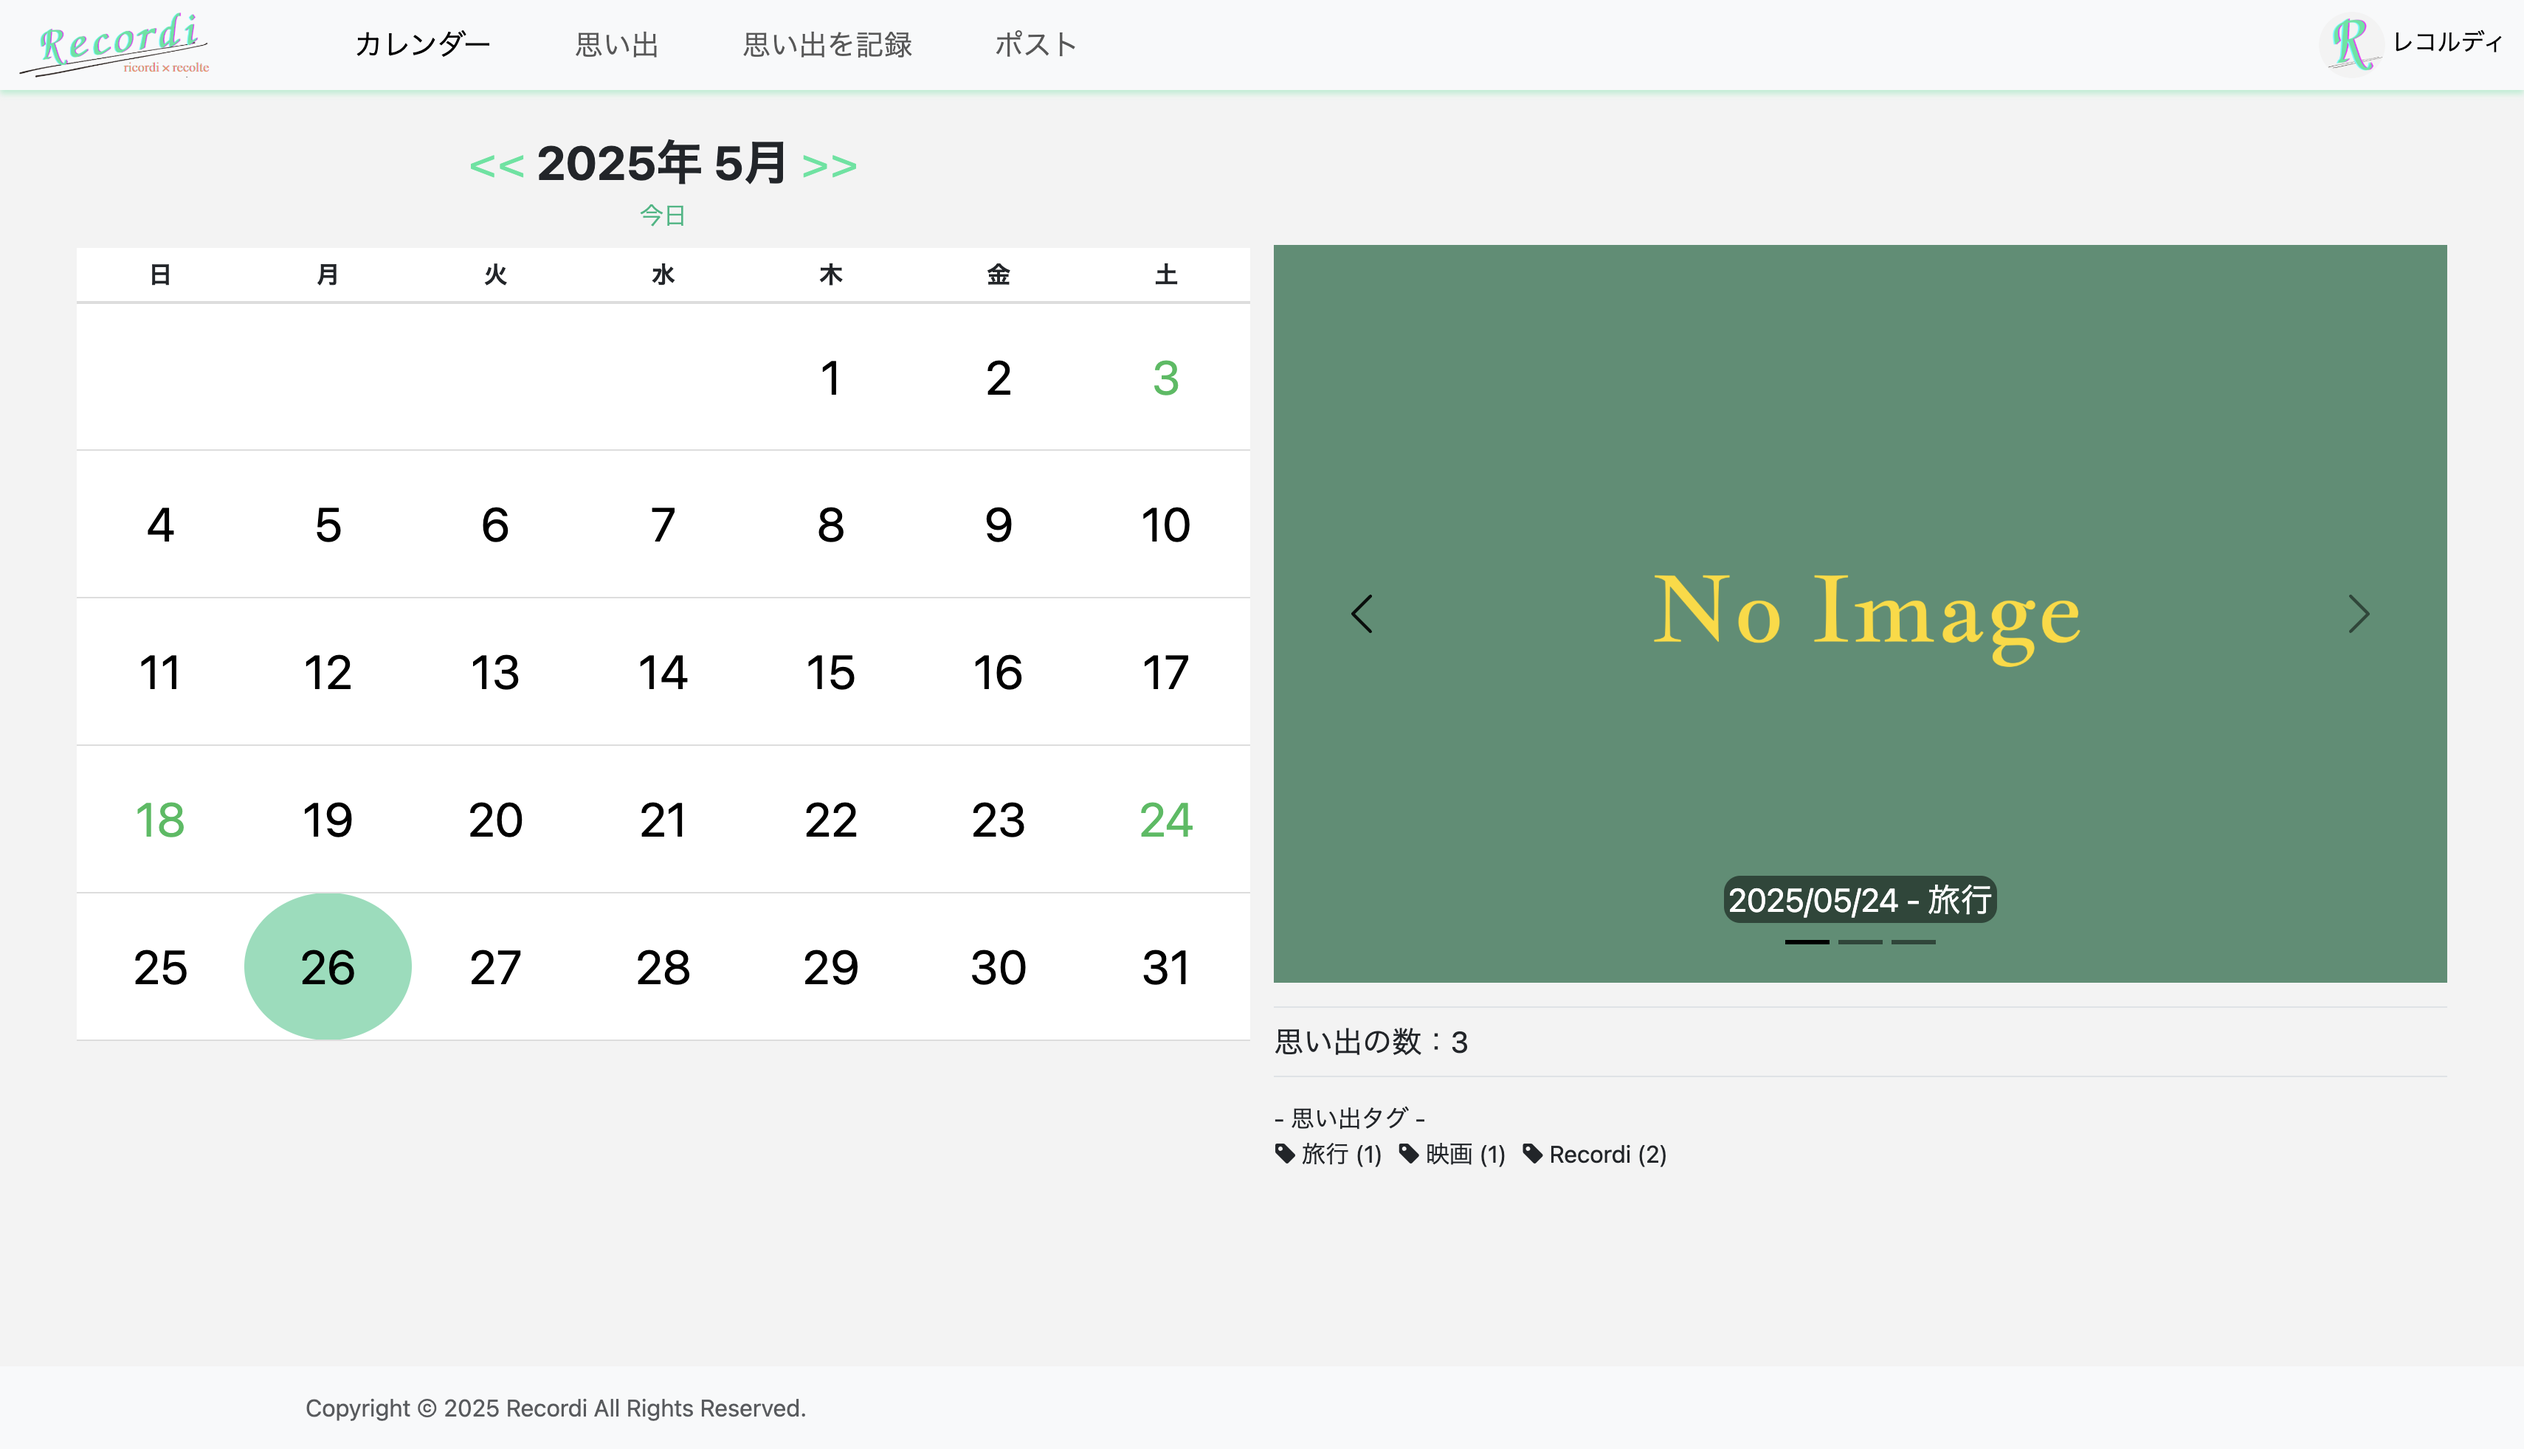
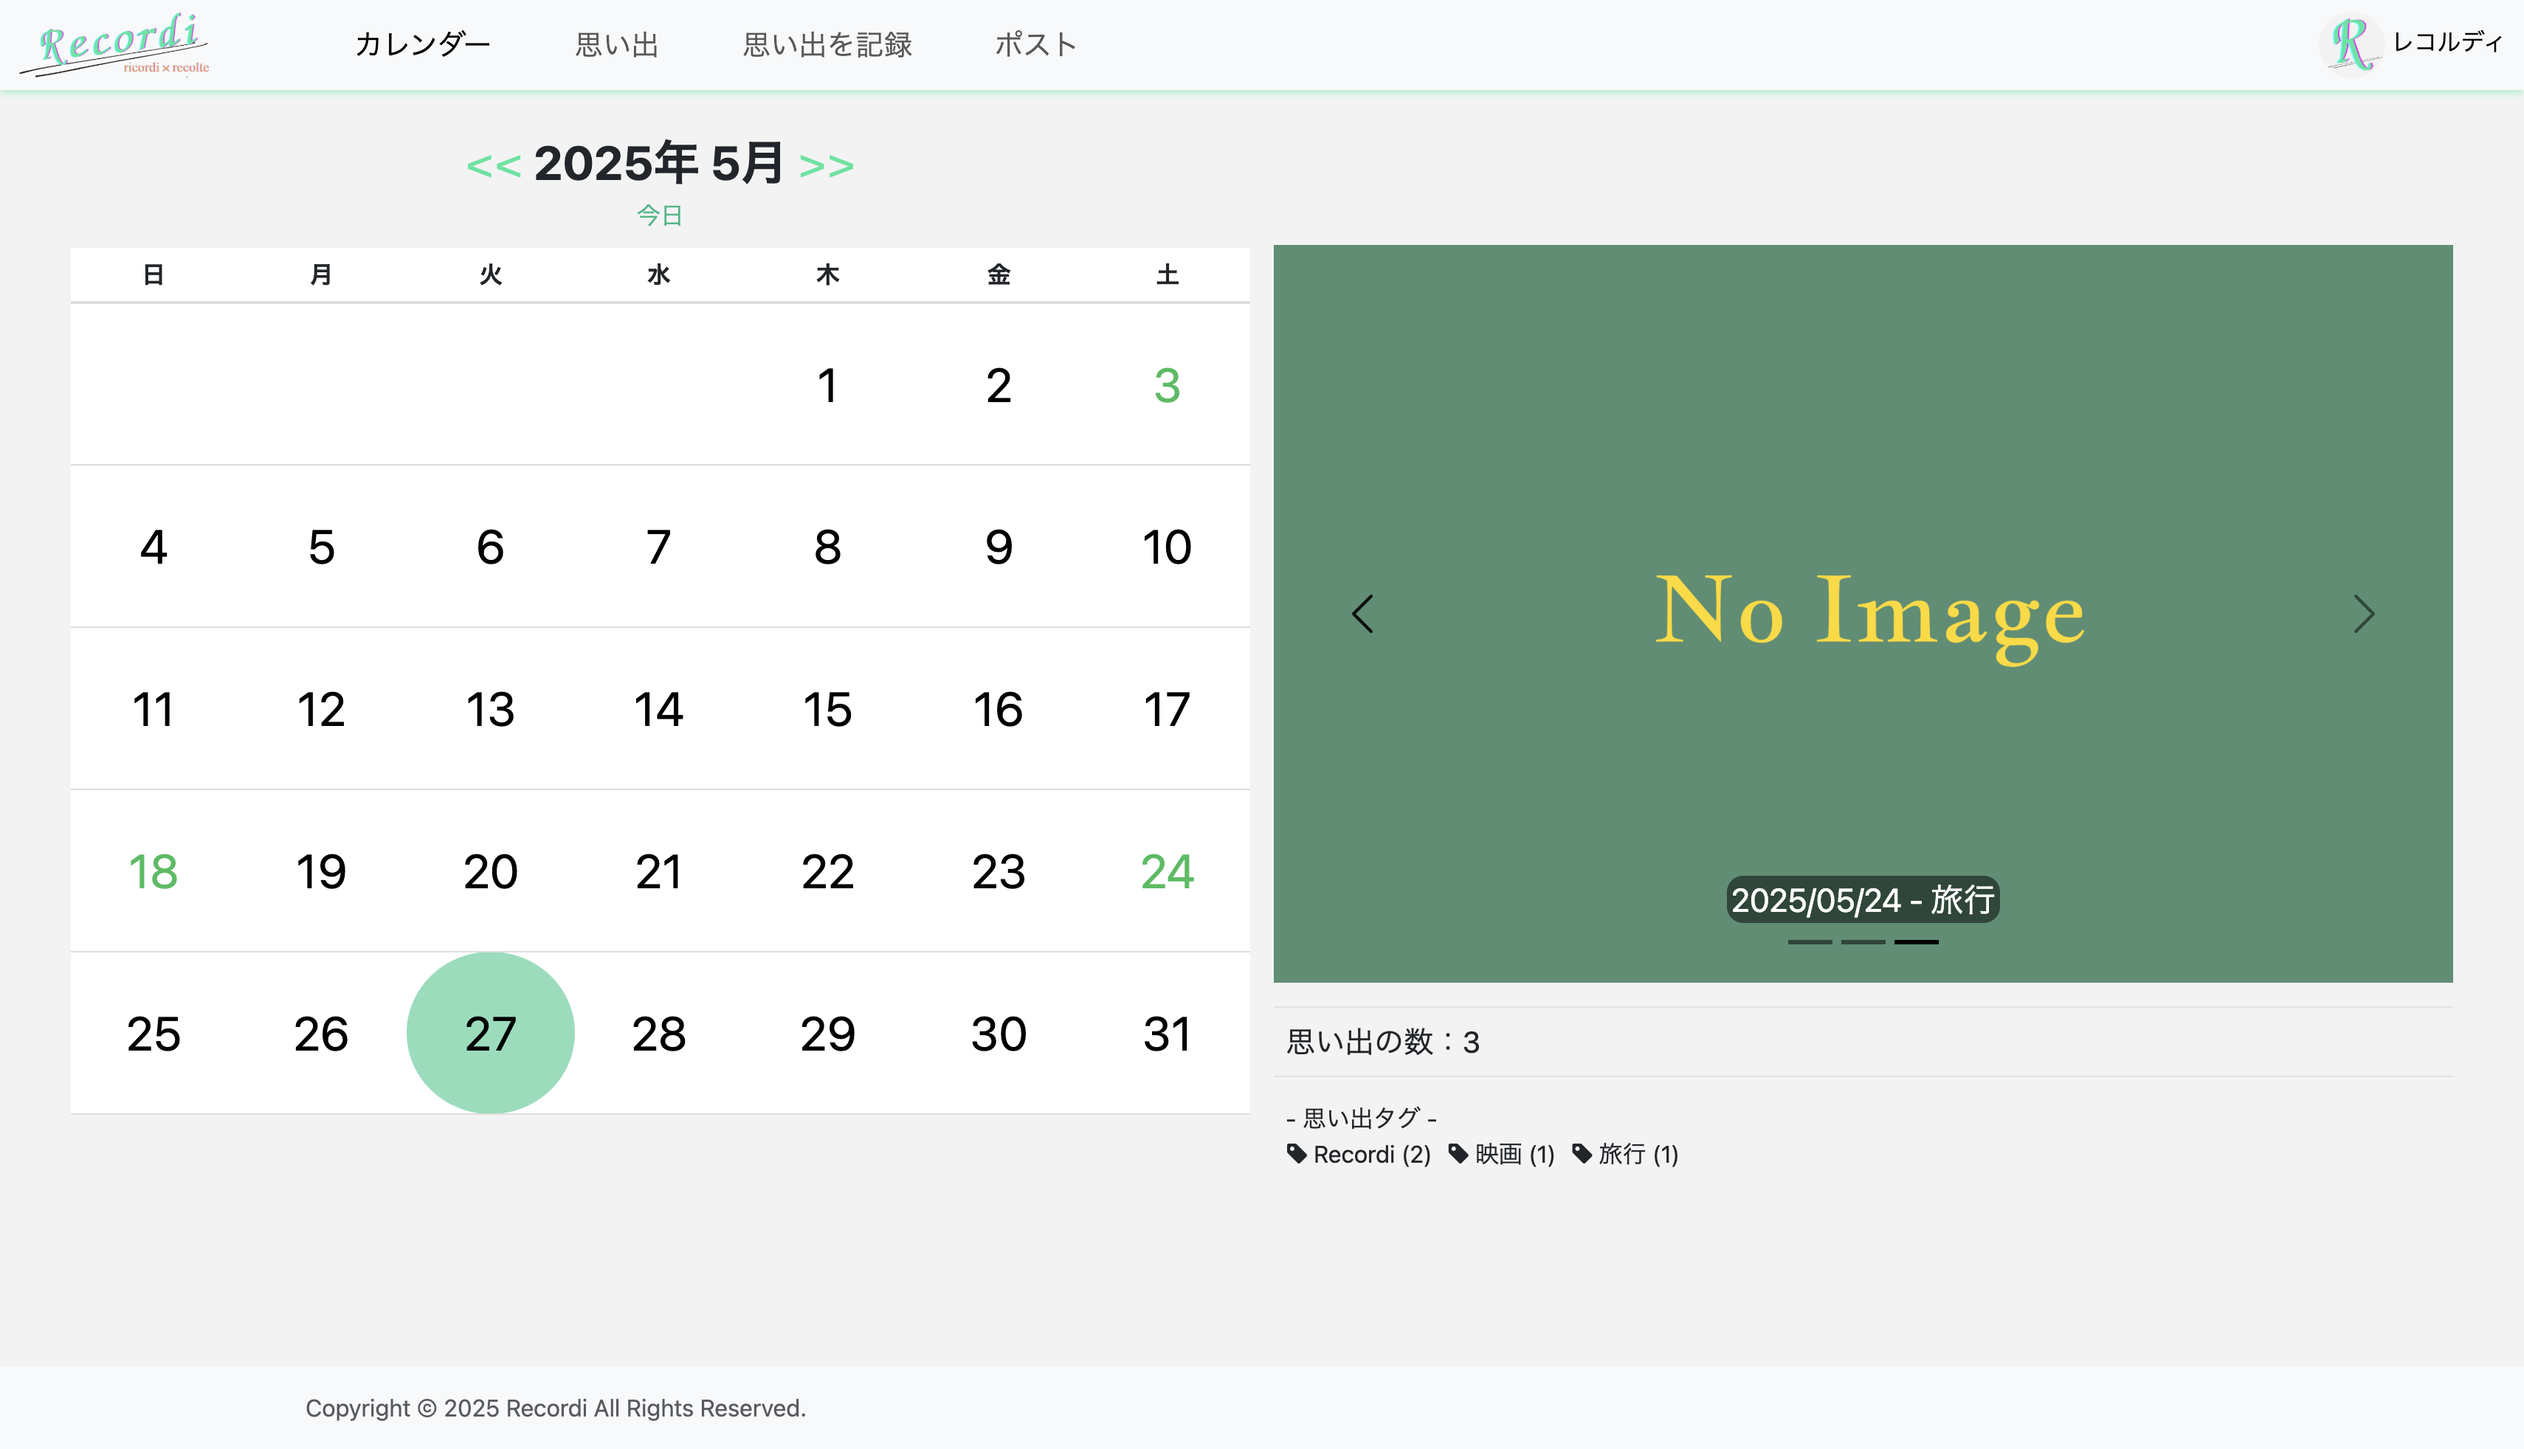
README修正、使い方紹介ページに画像追加、思い出記録ページに戻るリンク追加

diff --git a/app/assets/stylesheets/calendar_page.css b/app/assets/stylesheets/calendar_page.css
@@ -9,8 +9,7 @@
   width: 50%;
   margin: 110px 0px 20px 0px;
   align-items: center;
-  margin-right: 0.25rem !important;
-  margin-left: 0.5rem !important;
+  margin-left: 0.5rem;
 }
 
 .slide-posi {
@@ -25,14 +24,18 @@
 
 .total {
   font-size: 20px;
+  margin-left: 0.5rem;
+}
+
+.tags {
+  margin-left: 0.5rem;
 }
 
 .calendar-box {
   box-sizing: border-box;
   width: 50%;
   margin: 0px 0px 20px 0px;
-  margin-right: 0.5rem !important;
-  margin-left: 0.25rem !important;
+  margin-right: 0.5rem;
 }
 
 .day-title-box {
@@ -58,7 +61,6 @@
   .total-box {
     width: 100%;
     margin: 30px 0px 20px 0px;
-    margin-right: 0rem !important;
     margin-left: 0rem !important;
   }
 
@@ -66,7 +68,6 @@
     width: 100%;
     margin: 0px 0px 0px 0px;
     margin-right: 0rem !important;
-    margin-left: 0rem !important;
   }
 
   .slide-posi {
@@ -88,7 +89,6 @@
   .total-box {
     width: 100%;
     margin: 20px 0px 20px 0px;
-    margin-right: 0rem !important;
     margin-left: 0rem !important;
   }
 
@@ -96,7 +96,6 @@
     width: 100%;
     margin: 0px 0px 0px 0px;
     margin-right: 0rem !important;
-    margin-left: 0rem !important;
   }
 
   .slide-posi {

diff --git a/app/assets/stylesheets/calendar_style.css b/app/assets/stylesheets/calendar_style.css
@@ -64,7 +64,6 @@
   }
 
   td {
-    height: 100px;
     /* border: 1px solid #ddd; */
     /* border-top-color: rgb(221, 221, 221); */
     /* border-top-style: solid; */
@@ -81,7 +80,7 @@
   }
 
   .day {
-    width: 100px;
+    height: 110px;
   }
 
   .today {
@@ -137,8 +136,8 @@
     margin: 10px 0px 5px 0px;
   }
 
-  td {
-    height: 70px;
+  .day {
+    height: 60px !important;
   }
 
   .calendar-title {

diff --git a/README.md b/README.md
@@ -1,70 +1,85 @@
-## サービス概要
-サービス名：Recordi
+# Recordi
 サービスURL：https://recordi.jp
 
+### 思い出の記録・評価・共有ができるアプリ
+![](app/assets/images/ogp.png)
+
+# サービス概要
 Recordi（レコルディ）とは、思い出の記録、1〜5個の星で思い出を評価、思い出を他のユーザーに共有するなどができるアプリです。
 思い出の記録だけでなく、場所、作品、料理などを記録しレビューアプリとして使用することもできます。
 
-## このサービスへの思い・作りたい理由
-- 私は映画を観るのが趣味で、たくさん映画を観るとこの日にこの作品を観たというのを忘れてしまうことがよくあります。そこで観た作品を記録し、評価もできると共に、他の人と共有し合えるアプリがあったら良いなと思い、サービス考えていくうちに日記アプリを作ろうという考えに纏まりました。
-- 何もしないで１日が終わってしまったという日を誰しも経験していると思います。そこで無駄な１日を無くしていきたいと思ったので、思い出を記録していくこのサービスを考えました。
-- 毎月少しでも良いので思い出を残していき、楽しかった、満足したと思える人生を過ごして欲しいという思いもあります。
+# サービス開発の背景
+　休日に何もしないで１日が終わってしまったという日を誰しも経験していると思います。私もその一人で、休日に何かしようと考えるも結局何もせず無駄な１日を過ごしてしまうということがよくありました。今ではそういう日を無くそうと予定のない日はよく映画を観るようになり、映画を観るのが趣味になりましたが、たくさん映画を観るとこの日にこの作品を観たというのを忘れてしまうことがよくありました。
+　そこで私は、休日を無駄にしないで思い出を残して欲しいという思いから、観た映画や行った場所などを思い出として記録し、評価もつけられ、他の人と思い出を共有し合えるアプリ『Recordi』を開発することにしました。『Recordi』が、予定のない休日に何かしようと行動するきっかけの一つになれば良いなと考えております。
 
-## ユーザー層について
-### ユーザー層
-20代〜30代の社会人を主な対象にしたいと考えています。
-### 理由
-社会人の中には仕事が辛くて知らず知らずネガティブ思考になっている人がいると思います。ましてや社会人はプライベートな時間が限られていて休日も少ないです。なのでこのサービスを利用して、貴重な休日を無駄にせず、アクションを起こし、ポジティブ思考で生活して欲しいと思い、社会人を主な対象にしたいと考えました。
+# 機能紹介
 
-## サービスの利用イメージ
-思い出記録アプリとして使っていただき、会話の題材として「行った場所」や「観た作品」などを確認するのに使うのもよし、思い出に対して星の評価をし、共有し、「いいね」を送り合うのもよし、毎月「思い出の合計」を確認し充実感を実感するのもよし、このようにユーザーに自由に使ってもらい、毎月楽しく生きているという実感を感じて欲しいです。
-また、レビューアプリのように共有メインで使っていただいてもかまいません。
+| ユーザー登録 / ログイン |
+| :---: |
+| [![Image from Gyazo](https://i.gyazo.com/f4d374363eeb256cc834fdad6bad2cf5.gif)](https://gyazo.com/f4d374363eeb256cc834fdad6bad2cf5) |
+| <p align="left">『名前』『メールアドレス』『パスワード』『確認用パスワード』を入力してユーザー登録を行います。ユーザー登録後は、自動的にログイン処理が行われるようになっており、そのまま直ぐにサービスを利用する事が出来ます。<br>また、Googleアカウントを用いてGoogleログインを行う事も可能です。</p> |
+<br>
 
-## ユーザーの獲得について
-- SNSでの発信
-- 友人からその友人へと広めていく
+| カレンダー |
+| :---: |
+| [![Image from Gyazo](https://i.gyazo.com/8259ea47b3b5676032086e525d42ecfe.gif)](https://gyazo.com/8259ea47b3b5676032086e525d42ecfe) |
+| <p align="left">カレンダーの日数をクリックすると、思い出記録フォームまたは思い出詳細ページに遷移することができます。</p> |
+<br>
 
-## サービスの差別化ポイント・推しポイント
-- カレンダーページにその月の「思い出の合計数」が表示されることによって、その月がどのぐらい充実した月なのかが一目で分かる。
-- カレンダーページに思い出に設定したタグが表示されることによって、その月にどういう思い出を記録したかを確認できる。
-- 思い出を１〜５個の星で評価することができると共に、評価した思い出をアプリ内で他ユーザーと共有することができ、「いいね」を送り合うことができる。
-- カレンダーの機能、思い出を記録する機能、１〜５個の星で評価ができる機能、思い出を共有し「いいね」を送り合う機能が一つのサービスに纏まっている。
-- リマインダー機能を使用し、土曜日または日曜日の朝に「今日は休日です、思い出を残しましょう」というメッセージをメールでリマインドすることができる。
+| 思い出の記録 |
+| :---: |
+| [![Image from Gyazo](https://i.gyazo.com/c0f21e237bb3fcc4fe41f2c50cf1abb8.gif)](https://gyazo.com/c0f21e237bb3fcc4fe41f2c50cf1abb8) |
+| <p align="left">必須項目の『日付』『タイトル』『本文』と、その他の項目の『評価』『メイン画像』『サブ画像』『タグ』を入力して思い出を記録できます。<br>また、メイン画像を追加しない場合、自動的にNo Image画像がメイン画像として追加されます。</p> |
+<br>
 
-## 機能候補
-### MVPリリース時
-- ユーザー登録機能 (gem devise)
-- カレンダー機能（gem simple_calendar）
-- 思い出登録機能
-- 思い出の合計を表示させる機能
-- 星評価機能（javascript）
-- 投稿機能
-- 画像スライド表示機能
-### 本リリース時
-- ７ヶ月間の各月の「思い出の数」を比較するグラフを表示する機能
-- タグ機能
-- いいね機能
-- オートコンプリート検索機能
-- リマインダー機能 (メール通知)
-- Googleログイン機能
-- パスワードリセット機能
-- [i18n]多言語対応
+| 思い出一覧 |
+| :---: |
+| [![Image from Gyazo](https://i.gyazo.com/882575e57c123ed5d5a7476a1a0e3ad7.gif)](https://gyazo.com/882575e57c123ed5d5a7476a1a0e3ad7) |
+| <p align="left">記録した思い出を一覧で閲覧できます。<br>また、「７ヶ月間の思い出の数を比較」をクリックすると、７ヶ月間の思い出の数を比較できるグラフが表示されます。</p> |
+<br>
 
-## 機能の実装方針予定
-- Search（検索）:年と月を指定して検索できる
-- Filter（フィルター）: 指定したタグを使っている内容を表示する
-- Aggregate（集約）: 思い出の合計を表示させる
-- LINE Messaging API
+| ポスト作成 |
+| :---: |
+| [![Image from Gyazo](https://i.gyazo.com/9926b59f3ce8bb521afa80b48a4950f0.gif)](https://gyazo.com/9926b59f3ce8bb521afa80b48a4950f0) |
+| <p align="left">思い出を他のユーザーに共有する際にポストを作成します。『タイトル』『本文』『タグ』を入力してポストを作成できます。</p> |
+<br>
 
-## 利用する技術スタック
-- Ruby on Rails
-- PostgreSQL
-- HTML
-- CSS
-- JavaScript
+| ポスト一覧 |
+| :---: |
+| [![Image from Gyazo](https://i.gyazo.com/ab7f2a703cb00aef155759cca2922860.gif)](https://gyazo.com/ab7f2a703cb00aef155759cca2922860) |
+| <p align="left">ポストを一覧で閲覧できます。</p> |
+<br>
+
+| リマインダー機能 |
+| :---: |
+| [![Image from Gyazo](https://i.gyazo.com/109dd0175a76347eebb8a75aab0289f8.gif)](https://gyazo.com/109dd0175a76347eebb8a75aab0289f8) |
+| <p align="left">リマインダーメールの受信設定を行えます。受信設定をONにすると、土曜日または日曜日の朝に「今日は休日です、思い出を残しましょう」というメッセージをメールでリマインドすることができます。</p> |
+<br>
+
+| プロフィール |
+| :---: |
+| [![Image from Gyazo](https://i.gyazo.com/0c1944fc684666a3fba0ea5d5fd57059.gif)](https://gyazo.com/0c1944fc684666a3fba0ea5d5fd57059) |
+| <p align="left">プロフィールの確認・編集、作成したポスト・いいねしたポストの確認ができます。</p> |
+<br>
+
+# 技術構成について
+
+## 使用技術
+| カテゴリ | 技術 |
+| --- | --- | 
+| サーバーサイド | Ruby 3.4.1 / Ruby on Rails 8.0.1 |
+| フロントエンド | Ruby on Rails / JavaScript |
+| CSSフレームワーク | Bootstrap / Font Awesome |
+| Web API | Google API |
+| データベースサーバー | PostgreSQL |
+| ファイルサーバー | AWS S3 |
+| アプリケーションサーバー | Fly.io |
+| CI/CD | Github Actions |
+<br>
 
 ## 画面遷移図
 Figma：https://www.figma.com/design/q4G7Nwu8Wyb56KLD9ks0TM/recollection_calendar_app?node-id=0-1&p=f&t=CC89fp5GsBNClTqM-0
+<br>
 
 ## ER図
 ER図：https://drive.google.com/file/d/18CzP48Ffv42-0Ntx27n2pQAB2zTgmDRc/view?usp=sharing
